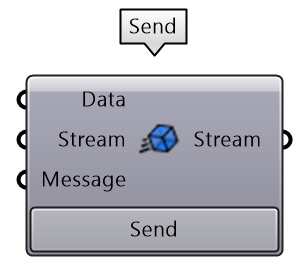
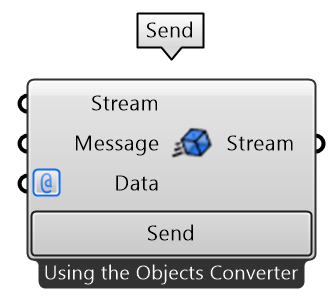
docs(gh): Updated send/receive section in GH

diff --git a/user/grasshopper.md b/user/grasshopper.md
@@ -481,23 +481,39 @@ The process to use Speckle in a python script is similar to the C# node steps, o
 
 The **Send Node** performs sending operations, usually to a Speckle Server, but also supports sending to a different data storage using _transports_. Whenever possible, the _Send_ node wil try to convert any Rhino-compatible objects into Speckle format.
 
+<!-- > This node is capable of [Kit Selection](#object-conversion-and-kits) -->
+
+#### Input
+
+- _Stream_: Supports any generated stream from within the `Stream` component category, but also _stream urls_ in text format.
+- _Message_: The message you want to attach to the _commit_ when you send the data. Defaults to `"Grasshopper push"`.
+- _Data_: This port will accept almost anything you give it. If the objects provided are not `Base` objects, it will also perform the conversion to Speckle automatically.
+
+#### Output
+
+- _Stream_: The _commit url_ pointing to the objects in the Speckle server.
+
+#### Extra options
+
+##### Variable inputs
+
+Just as in the `Create Speckle Object` node, you can add as many inputs as necessary. In the `Send` node, all inputs are set to `tree` to accept any type of information and grasshopper data structure.
+
+![Send node variable input behaviour](./img-gh/gh-send-variableinput.gif)
+
+##### Send automatically
+
 There is also an option to set the node to automatically send every time there is a change in the data. You will find this option in the right-click menu of the node.
 
 | ![Activating auto mode in sender](./img-gh/nodes-send-automode-activate.png) | ![Auto-send mode active in sender](./img-gh/nodes-send-automode-active.png) |
 | ---------------------------------------------------------------------------- | --------------------------------------------------------------------------- |
 
 
-<!-- > This node is capable of [Kit Selection](#object-conversion-and-kits) -->
+##### Detach input data
 
-#### Input
+This option is enabled by default in all inputs, but it can be disabled on a per-input basis on the right-click menu of each input.
 
-- _Data_: This port will accept almost anything you give it. If the objects provided are not `Base` objects, it will also perform the conversion to Speckle automatically.
-- _Stream_: Supports any generated stream from within the `Stream` component category, but also _stream urls_ in text format.
-- _Message_: The message you want to attach to the _commit_ when you send the data. Defaults to `"Grasshopper push"`.
-
-#### Output
-
-- _Stream_: The _commit url_ pointing to the objects in the Speckle server.
+You can find a more detailed explanation of this option [here](#detachdo-not-detach).
 
 ### Receive Node
 
@@ -514,6 +530,28 @@ The **Receive Node** fetches data from a specified `Stream` or any other valid `
 #### Outputs
 
 - _Data_: The data that was received from the stream.
+
+#### Extra options
+
+##### Expand received object
+
+**Enabled by default**. This will expand the received object to expose it's properties. If the specific speckle object has a supported conversion, it will be converted insted (i.e.: a point, line, mesh)
+
+This option can be disabled in the right-click menu of the Receive node.
+
+Here's a quick animation of the process:
+
+![Receive node with expand option active](./-img-gh/gh-receive-variableoutput.gif)
+
+##### Do not convert
+
+Similar to the `Do not convert` option in `Create Speckle Object` node, it will prevent any conversion from happening and output Speckle objects instead.
+
+##### Receive automatically
+
+There is also an option to set the node to automatically send every time there is a new commit on the stream. You will find this option in the right-click menu of the node.
+
+This option is not available when the input stream url points to a specific `commit` or an `object`.
 
 ### Local Send Node
 
